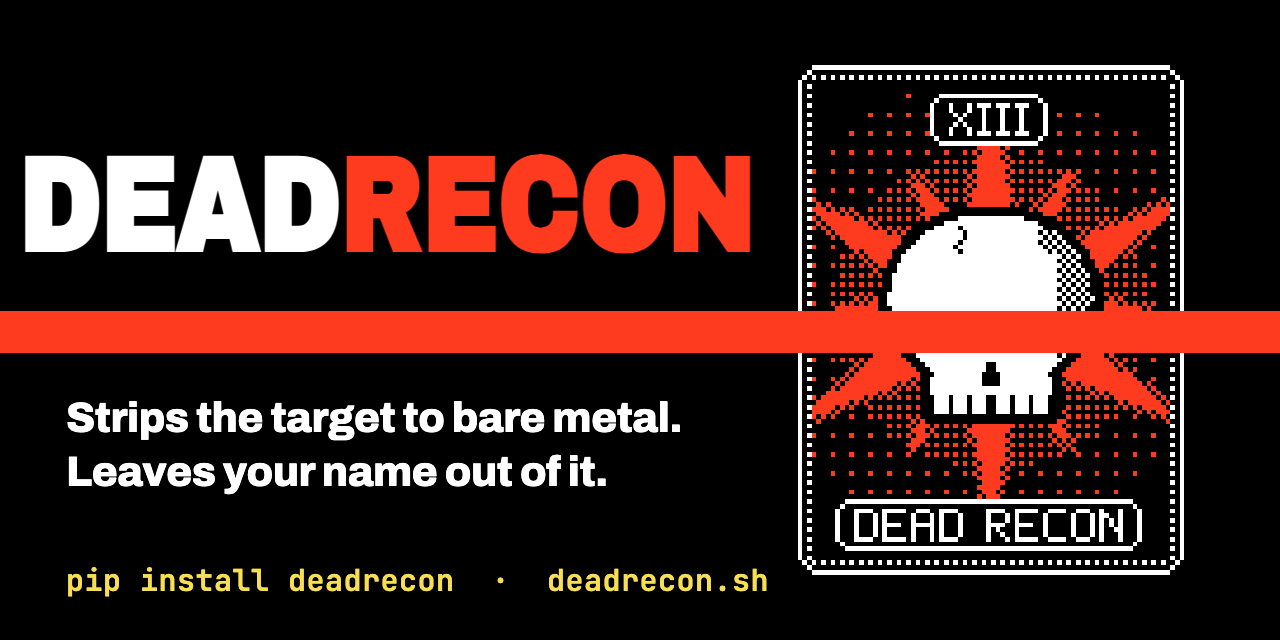
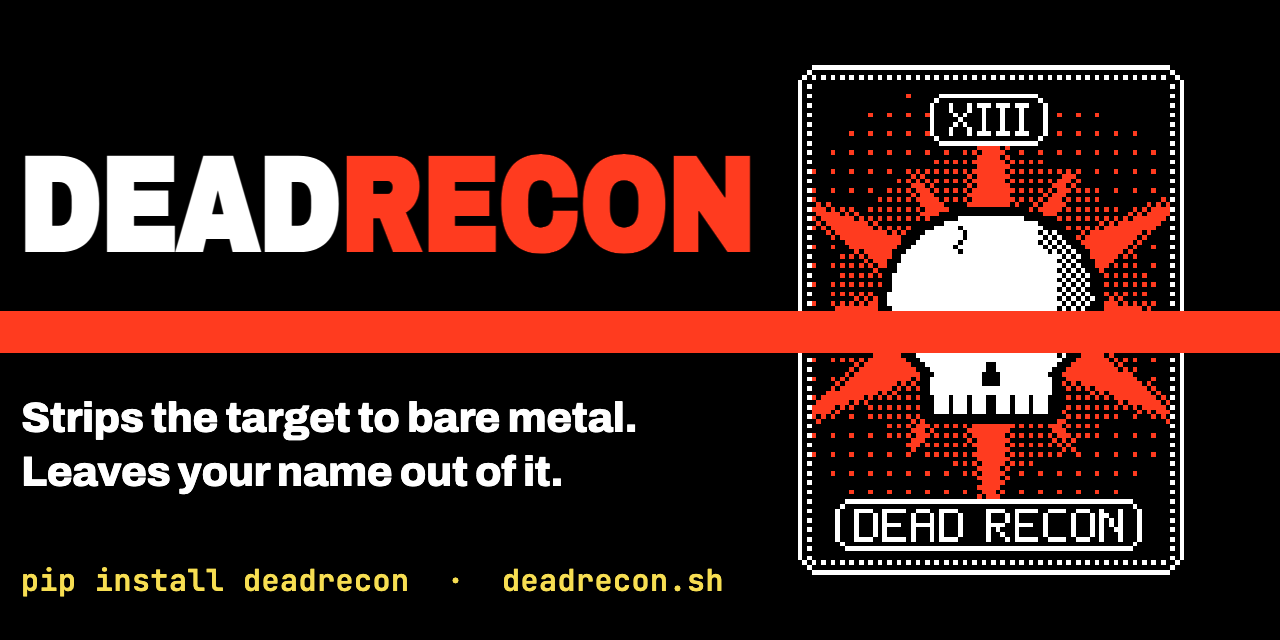
docs: align social-card subtitle and install line flush with wordmark
Move the subtitle and install line to left:21px so their left edges line up
with the DEADRECON wordmark, and re-render.

Changed region(s): [[0.0, 0.625, 0.5312, 0.7812], [0.0, 0.875, 0.5938, 0.9375]]

diff --git a/docs/assets/deadrecon-social.src.html b/docs/assets/deadrecon-social.src.html
@@ -39,12 +39,12 @@
   .wm .r{ color:var(--red); }
 
   .sub{
-    position:absolute; top:392px; left:66px; z-index:2;
+    position:absolute; top:392px; left:21px; z-index:2;
     font-family:"Archivo", system-ui, sans-serif; font-weight:800;
     font-size:42px; line-height:1.28; color:var(--fg); letter-spacing:-0.5px;
   }
   .install{
-    position:absolute; top:560px; left:66px; z-index:2;
+    position:absolute; top:560px; left:21px; z-index:2;
     font-family:"JetBrains Mono", ui-monospace, monospace; font-weight:600;
     font-size:30px; color:var(--gold); letter-spacing:0.5px;
   }
